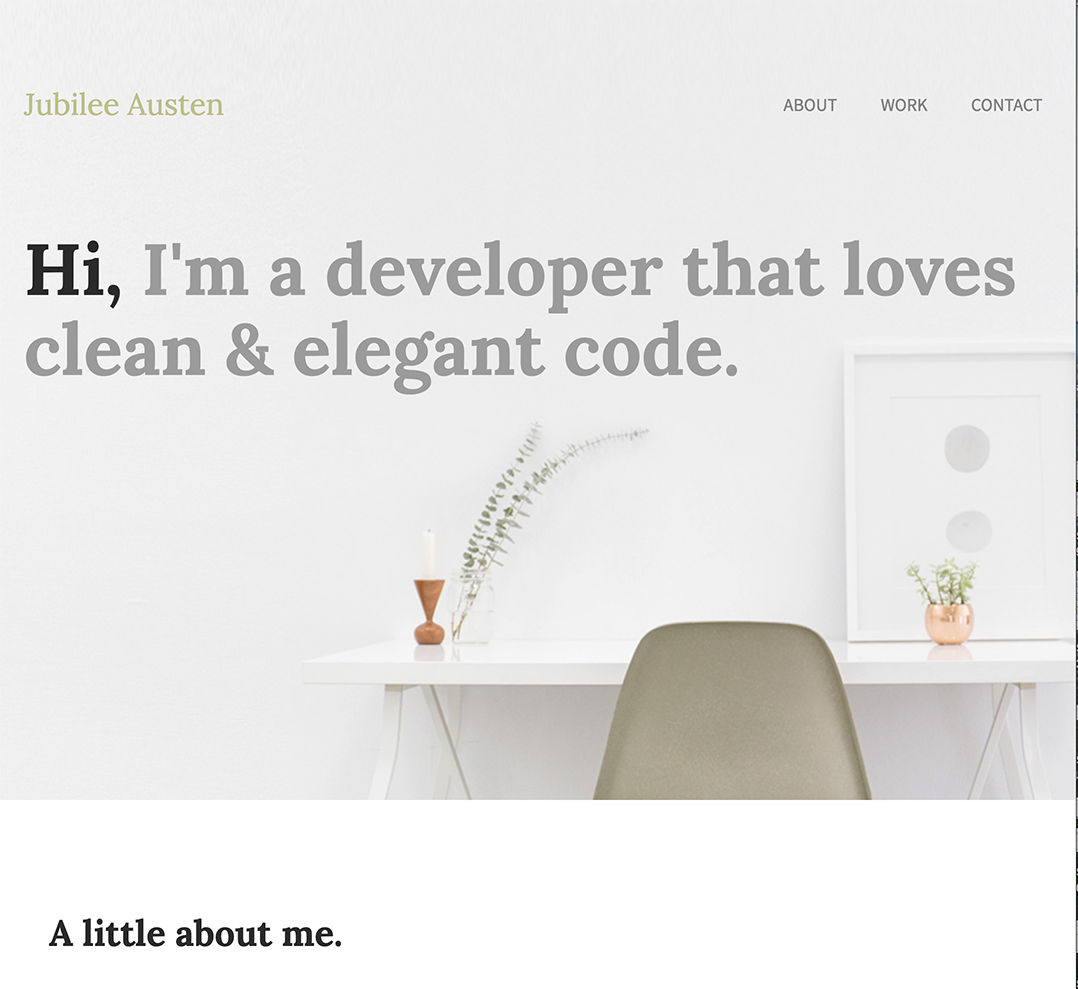
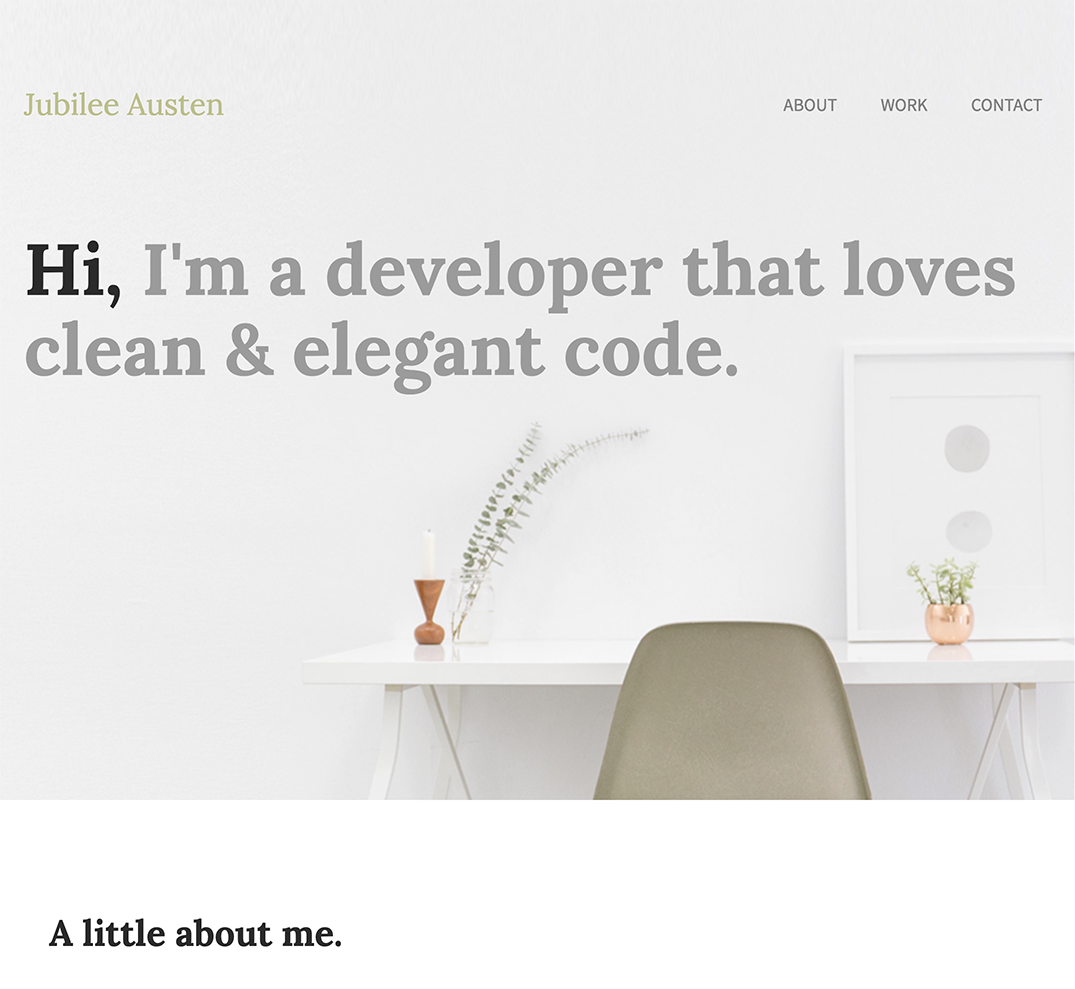
"Fixed img cropping for reese-jubilee, accented hover feature in HTML, and updated alt background bg color behind images."

diff --git a/css/main.css b/css/main.css
@@ -131,7 +131,7 @@ nav a{
 
 /** HERO BACKGROUND IMAGE **/
 .hero-area{
-  background: url(../img/hero-background.png) center no-repeat #7e867f;
+  background: url(../img/hero-background.png) center no-repeat #3e3f3e;
   background-size: cover;
   width: 100%;
 }
@@ -139,7 +139,7 @@ nav a{
   /** ABOUT ME BACKGROUND IMAGE **/
 
   #about-me{
-  background: url(../img/about-me.png) center no-repeat #7e867f;
+  background: url(../img/about-me.png) center no-repeat #3e3f3e;
   background-size: cover;
   width: 100%; 
 }

diff --git a/index.html b/index.html
@@ -24,7 +24,7 @@
     <script src="https://kit.fontawesome.com/b8b7811531.js" crossorigin="anonymous"></script>
 
     <meta name="theme-color" content="#fafafa">
-    <style>a:hover { color: #f72758; }</style>
+    <style>a:hover { color: #a80035; }</style>
   </head>
 
   <body>
